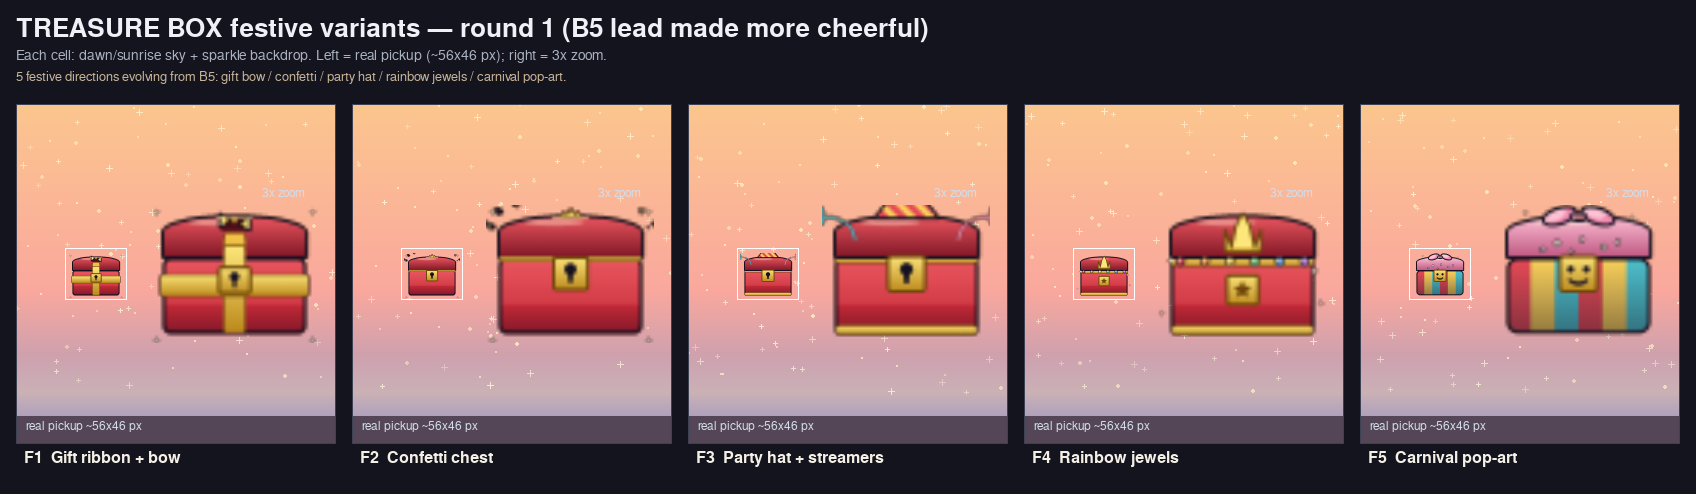
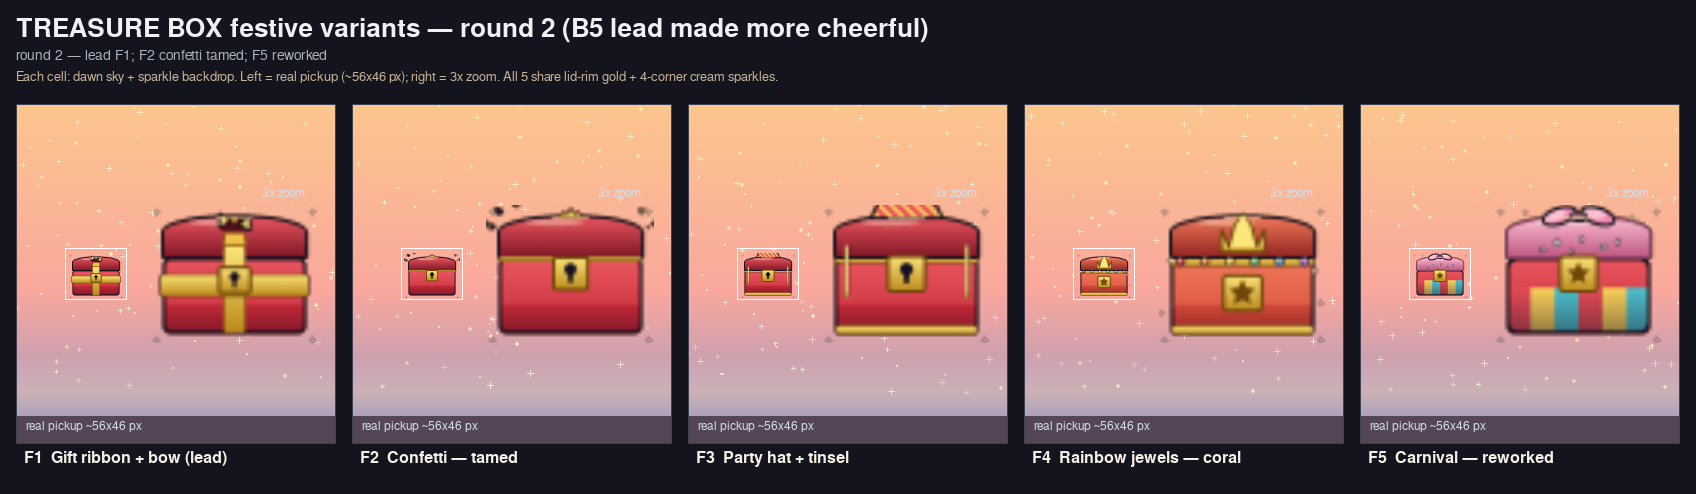
Festive round 2 — apply F3 straight-tinsel polish
Designer landed the last polish item: F3's curly streamers (which
vanished entirely at the 56x46 px pickup scale) replaced with two
straight 1-px gold tinsel strands hanging from the lid corners down
to mid-body, with a faint ink underline so they survive the
downscale. Title strip updated to "round 2" with the round-2
subtitle line; all 5 cell captions now carry the round-2 labels
(F1 lead, F2 tamed, F3 tinsel, F4 coral, F5 reworked).

Doc-only.

https://claude.ai/code/session_015eWdab4GNRiXFWxdLQ8CG2

diff --git a/tools/render_treasure_box_festive_options.py b/tools/render_treasure_box_festive_options.py
@@ -575,38 +575,34 @@ def icon_f3():
     lock_cy = body.top + lock_h // 2 - int(body.height * 0.04)
     _gold_lock(big, lock_cx, lock_cy, lock_w, lock_h, ink, keyhole=True)
 
-    # Curly streamers spiralling outward from the lid's left + right
-    # corners. Drawn as parametric loops with decreasing radius. Done
-    # BEFORE the hat so the hat draws over any streamer overlap near the
-    # apex.
-    for sgn, col in ((-1, CARNIVAL_T), (+1, PASTEL_PINK_MID)):
-        anchor_x = lid.centerx + sgn * int(lid.width * 0.36)
-        anchor_y = lid.top + int(lid.height * 0.15)
-        pts2 = []
-        n = 40
-        # A loose spiral arc, lifted outward + upward.
-        for i in range(n + 1):
-            t = i / n
-            # Phase increases as we walk outward; radius shrinks slightly
-            # to give that ribbony curl.
-            ang = sgn * t * math.pi * 2.6 + math.pi * 0.5
-            rr = lid.width * (0.10 + 0.18 * t)
-            ox = sgn * t * lid.width * 0.32
-            oy = -t * lid.height * 1.0
-            x = anchor_x + ox + math.cos(ang) * rr * 0.30
-            y = anchor_y + oy + math.sin(ang) * rr * 0.30
-            pts2.append((x, y))
-        # Draw a slightly fatter ink underline first for the outline.
-        pygame.draw.lines(big, INK, False, pts2, max(4, ink + 1))
-        pygame.draw.lines(big, col, False, pts2, max(2, ink - 1))
+    # Two straight gold tinsel strands hang from the lid corners down
+    # ~half the body height. 1 px wide at pickup scale (= SS in the
+    # supersampled space) so they survive the downscale. The previous
+    # curly streamers vanished completely at 1x.
+    tinsel_top_y = lid.top + int(lid.height * 0.55)
+    tinsel_bot_y = body.top + body.height // 2
+    tinsel_w = max(1, SS)
+    for sgn in (-1, +1):
+        tx = lid.centerx + sgn * int(lid.width * 0.42)
+        # Faint ink underline first so the strand has an edge at 1x.
+        pygame.draw.line(big, INK, (tx, tinsel_top_y),
+                         (tx, tinsel_bot_y), max(1, tinsel_w + SS // 2))
+        pygame.draw.line(big, GOLD_HI, (tx, tinsel_top_y),
+                         (tx, tinsel_bot_y), tinsel_w)
+        # Tiny gold bead at the tip so the strand reads as tinsel, not
+        # a stray pixel line.
+        pygame.draw.circle(big, GOLD_HI, (tx, tinsel_bot_y),
+                           max(1, SS))
+        pygame.draw.circle(big, GOLD_INK, (tx, tinsel_bot_y),
+                           max(1, SS), max(1, SS // 2))
 
-    # Tall striped party hat — cone with red/yellow diagonal stripes.
-    # The hat's tip sits above the lid apex by ~3 px so it dominates the
-    # silhouette like the B5 crown spike.
-    hat_base_w = int(lid.width * 0.46)
-    hat_h = int(lid.height * 1.55)
+    # Body-tall striped party hat — the hat's height matches the body
+    # height at the final scale so it dominates the silhouette like B5's
+    # crown spike. Drawn AFTER the tinsel so the hat masks any overlap.
+    hat_base_w = int(lid.width * 0.50)
+    hat_h = body.height                              # body-tall at final scale
     hat_base_cy = lid_apex_y + int(lid.height * 0.10)
-    hat_tip_y = lid_apex_y - hat_h + int(lid.height * 0.05)
+    hat_tip_y = hat_base_cy - hat_h
     hat_cx = lid.centerx
     hat_tri = [
         (hat_cx - hat_base_w // 2, hat_base_cy),
@@ -625,9 +621,11 @@ def icon_f3():
     mtri = [(p[0] - (hat_cx - mask_w // 2),
              p[1] - (hat_tip_y - ink * 2)) for p in hat_tri]
     pygame.draw.polygon(mask_surf, (255, 255, 255, 255), mtri)
-    # Stripes — diagonal red bands across the mask.
+    # Stripes — 2 px (at pickup scale, = SS*2 in supersample) diagonal
+    # red bands across the mask. Wider than round 1 so the bands read at
+    # 1x instead of looking like faint cross-hatching.
     stripe_surf = pygame.Surface((mask_w, mask_h), pygame.SRCALPHA)
-    band_w = max(SS * 2, int(mask_h * 0.18))
+    band_w = SS * 2                                  # 2 px at final scale
     spacing = band_w * 2
     for off in range(-mask_h, mask_w + mask_h, spacing):
         pts3 = [
@@ -643,10 +641,11 @@ def icon_f3():
     # Hat outline.
     pygame.draw.polygon(big, INK, hat_tri, max(2, ink))
 
-    # Tiny cream pom-pom on the tip — small bobble above the apex.
-    pom_r = max(3, int(SS * 1.3))
-    pygame.draw.circle(big, CREAM, (hat_cx, hat_tip_y - pom_r // 2), pom_r)
-    pygame.draw.circle(big, INK, (hat_cx, hat_tip_y - pom_r // 2),
+    # 3 px cream pom-pom on the tip at final scale — clearly readable at
+    # 1x, where the previous ~1.3 px pom collapsed into the outline.
+    pom_r = SS * 3 // 2                              # 3 px diameter at final
+    pygame.draw.circle(big, CREAM, (hat_cx, hat_tip_y - pom_r), pom_r)
+    pygame.draw.circle(big, INK, (hat_cx, hat_tip_y - pom_r),
                        pom_r, max(1, ink // 2))
 
     # A couple of cream sparkles flanking the hat.
@@ -656,6 +655,10 @@ def icon_f3():
     _draw_sparkle(big, hat_cx + int(hat_base_w * 0.95),
                   hat_tip_y + int(hat_h * 0.35),
                   max(2, int(SS * 0.8)), SPARKLE, max(1, ink // 2))
+
+    # Family unifiers — lid rim light + 4-corner sparkle ring.
+    _lid_rim_light(big, lid, lid_apex_y, ink)
+    _unified_sparkle_ring(big, body, lid, ink)
 
     return _finish(big)
 
@@ -783,40 +786,51 @@ def icon_f4():
 # F5 — Carnival pop-art.
 # ---------------------------------------------------------------------------
 def icon_f5():
-    """Multi-colour body — solid red replaced with bright vertical stripes
-    alternating red / yellow / teal (3-colour circus-tent vibe). A smaller
-    pastel-pink + gold bow tops the lid (no royal crown). Cream polka
-    dots scattered on the lid. The lock plate gets a smiley/star emblem
-    on its face instead of a keyhole. Most stylised + cheerful."""
+    """Reworked carnival cell — the round-1 smiley face read as a UI
+    sticker, not a chest. Now: top 40% of the body stays SOLID PARTY-RED
+    so the lid + lock sit on a clean canvas; the lower 60% gets the
+    bright red/yellow/teal vertical stripes for the circus-tent vibe.
+    The lid is pastel pink (with a 1-step DARKER rim so it separates
+    against the pink fill in silhouette). The lock plate carries an
+    F4-style gold 5-point STAR (the smiley + the eyes are gone). A
+    smaller pastel-pink + gold bow still crowns the lid."""
     big = _new_big()
     ink = max(3, int(SS * 1.05))
     body, lid = _common_layout()
 
-    # Body — vertical stripes inside a rounded mask. We draw a base solid
-    # red-low colour, then stripe-fill via clipped vertical bands, then
-    # outline the body rect for crisp edges.
+    # Body — solid party-red top, striped lower 60%. We paint the whole
+    # rounded rect first with the gradient PARTY_RED, then stripe over
+    # only the lower 60% inside the same rounded mask.
     radius = max(2, int(body.width * 0.08))
-    base_surf = pygame.Surface(body.size, pygame.SRCALPHA)
-    # Build the striped fill in body-local space.
-    stripe_cols = (CARNIVAL_R, CARNIVAL_Y, CARNIVAL_T)
-    n_stripes = 6
-    sw = body.width // n_stripes
-    for i in range(n_stripes):
-        col = stripe_cols[i % 3]
-        sx = i * sw
-        # Add a slight darker bottom shade per stripe so the body still has
-        # the depth of the gradient body the other variants use.
-        for y in range(body.height):
-            t = y / max(1, body.height - 1)
-            shade = _lerp(col, _lerp(col, INK, 0.45), t)
-            pygame.draw.line(base_surf, shade,
-                             (sx, y), (sx + sw, y))
-    # Round corners.
-    mask = pygame.Surface(body.size, pygame.SRCALPHA)
-    pygame.draw.rect(mask, (255, 255, 255, 255), mask.get_rect(),
-                     border_radius=radius)
-    base_surf.blit(mask, (0, 0), special_flags=pygame.BLEND_RGBA_MIN)
-    big.blit(base_surf, body.topleft)
+    _chest_body(big, body, ink, PARTY_RED_HI, PARTY_RED_MID, PARTY_RED_LO)
+
+    # Build the striped lower band in a body-local surface, then mask to
+    # the rounded body shape so the stripes hug the body silhouette.
+    stripe_top_frac = 0.40                           # solid red in top 40%
+    stripe_band_h = int(body.height * (1.0 - stripe_top_frac))
+    if stripe_band_h > 0:
+        base_surf = pygame.Surface(body.size, pygame.SRCALPHA)
+        stripe_cols = (CARNIVAL_R, CARNIVAL_Y, CARNIVAL_T)
+        n_stripes = 6
+        sw = body.width // n_stripes
+        stripe_top_y = int(body.height * stripe_top_frac)
+        for i in range(n_stripes):
+            col = stripe_cols[i % 3]
+            sx = i * sw
+            for y in range(stripe_top_y, body.height):
+                # Per-stripe shade toward INK so stripes match the
+                # gradient depth of the other variants' bodies.
+                t = (y - stripe_top_y) / max(1, body.height - stripe_top_y - 1)
+                shade = _lerp(col, _lerp(col, INK, 0.45), t)
+                pygame.draw.line(base_surf, shade,
+                                 (sx, y), (sx + sw, y))
+        mask = pygame.Surface(body.size, pygame.SRCALPHA)
+        pygame.draw.rect(mask, (255, 255, 255, 255), mask.get_rect(),
+                         border_radius=radius)
+        base_surf.blit(mask, (0, 0), special_flags=pygame.BLEND_RGBA_MIN)
+        big.blit(base_surf, body.topleft)
+    # Re-stroke the body outline so the rounded edge stays crisp on top
+    # of the stripe overlay.
     pygame.draw.rect(big, INK, body, ink, border_radius=radius)
 
     # Curved lid — pastel-pink top so it pops over the bright stripes.
@@ -824,6 +838,13 @@ def icon_f5():
                                    PASTEL_PINK_HI, PASTEL_PINK_MID,
                                    PASTEL_PINK_LO,
                                    grain=False, sheen=True)
+
+    # Darker lid rim — 1 value step down from PASTEL_PINK_LO so the rim
+    # separates from the pink lid fill in silhouette. We re-stroke the
+    # lid polygon outline in this darker tone.
+    lid_rim_dark = _lerp(PASTEL_PINK_LO, INK, 0.35)
+    if pts and len(pts) >= 3:
+        pygame.draw.polygon(big, lid_rim_dark, pts, max(2, ink))
 
     # Cream polka dots scattered on the lid.
     dot_specs = (
@@ -841,25 +862,22 @@ def icon_f5():
         pygame.draw.circle(big, CREAM_DOT, (dx, dy), dr)
         pygame.draw.circle(big, INK, (dx, dy), dr, max(1, ink // 2))
 
-    # Gold lock plate with a smiley emblem instead of a keyhole.
+    # Gold lock plate with an F4-style gold 5-point star on its face.
+    # Smiley dropped — at 1x it read as a UI sticker rather than a chest.
     lock_w = int(body.width * 0.28)
     lock_h = int(body.height * 0.50)
     lock_cx = body.centerx
     lock_cy = body.top + lock_h // 2 - int(body.height * 0.04)
     _gold_lock(big, lock_cx, lock_cy, lock_w, lock_h, ink, keyhole=False)
-    # Two eye dots + a curved smile.
-    eye_r = max(2, int(lock_h * 0.10))
-    ey = lock_cy - lock_h // 8
-    pygame.draw.circle(big, INK,
-                       (lock_cx - lock_w // 5, ey), eye_r)
-    pygame.draw.circle(big, INK,
-                       (lock_cx + lock_w // 5, ey), eye_r)
-    # Smile — short arc with a slightly thicker stroke.
-    smile_rect = pygame.Rect(0, 0, int(lock_w * 0.55), int(lock_h * 0.45))
-    smile_rect.center = (lock_cx, lock_cy + int(lock_h * 0.10))
-    pygame.draw.arc(big, INK, smile_rect,
-                    math.radians(200), math.radians(340),
-                    max(2, ink))
+    # 5-point star on the lock plate face (matches F4's star).
+    star_r = max(3, int(lock_h * 0.32))
+    star_pts = []
+    for k in range(10):
+        ang = -math.pi / 2 + k * math.pi / 5
+        rr = star_r if k % 2 == 0 else star_r // 2
+        star_pts.append((lock_cx + math.cos(ang) * rr,
+                         lock_cy + math.sin(ang) * rr))
+    pygame.draw.polygon(big, GOLD_INK, star_pts)
 
     # Smaller pastel-pink + gold bow crowning the lid (no royal crown).
     bow_w = int(lid.width * 0.62)
@@ -883,15 +901,19 @@ def icon_f5():
                   bow_cy + int(bow_h * 0.05),
                   max(2, int(SS * 0.8)), SPARKLE, max(1, ink // 2))
 
+    # Family unifiers — lid rim light + 4-corner sparkle ring.
+    _lid_rim_light(big, lid, lid_apex_y, ink)
+    _unified_sparkle_ring(big, body, lid, ink)
+
     return _finish(big)
 
 
 CANDIDATES = [
-    ("F1", "Gift ribbon + bow",      icon_f1),
-    ("F2", "Confetti chest",         icon_f2),
-    ("F3", "Party hat + streamers",  icon_f3),
-    ("F4", "Rainbow jewels",         icon_f4),
-    ("F5", "Carnival pop-art",       icon_f5),
+    ("F1", "Gift ribbon + bow (lead)", icon_f1),
+    ("F2", "Confetti — tamed",         icon_f2),
+    ("F3", "Party hat + tinsel",       icon_f3),
+    ("F4", "Rainbow jewels — coral",   icon_f4),
+    ("F5", "Carnival — reworked",      icon_f5),
 ]
 
 
@@ -918,19 +940,18 @@ def main():
         return pygame.font.SysFont("Arial", sz, bold=bold)
 
     title = font(26, bold=True).render(
-        "TREASURE BOX festive variants — round 1 "
+        "TREASURE BOX festive variants — round 2 "
         "(B5 lead made more cheerful)", True,
         (240, 240, 246))
     sheet.blit(title, (pad, pad))
     sub = font(14).render(
-        "Each cell: dawn/sunrise sky + sparkle backdrop. "
-        "Left = real pickup (~56x46 px); right = 3x zoom.",
+        "round 2 — lead F1; F2 confetti tamed; F5 reworked",
         True, (170, 178, 192))
     sheet.blit(sub, (pad, pad + 32))
     sub2 = font(13).render(
-        "5 festive directions evolving from B5: "
-        "gift bow / confetti / party hat / rainbow jewels / "
-        "carnival pop-art.",
+        "Each cell: dawn sky + sparkle backdrop. "
+        "Left = real pickup (~56x46 px); right = 3x zoom. "
+        "All 5 share lid-rim gold + 4-corner cream sparkles.",
         True, (200, 180, 150))
     sheet.blit(sub2, (pad, pad + 54))
 
